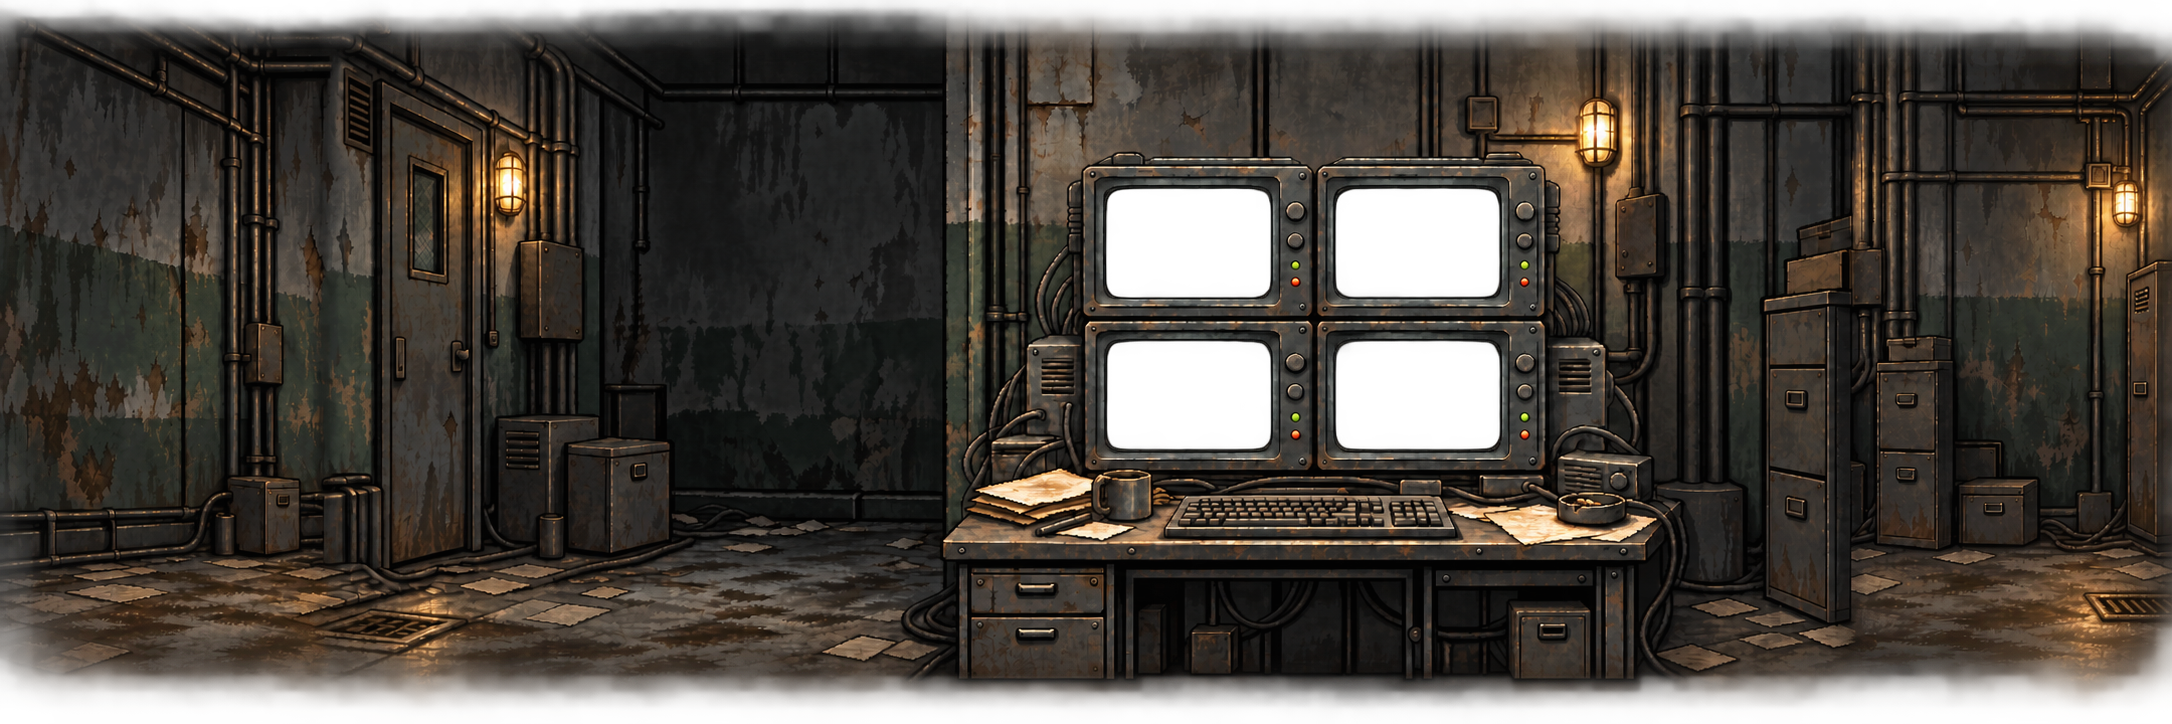
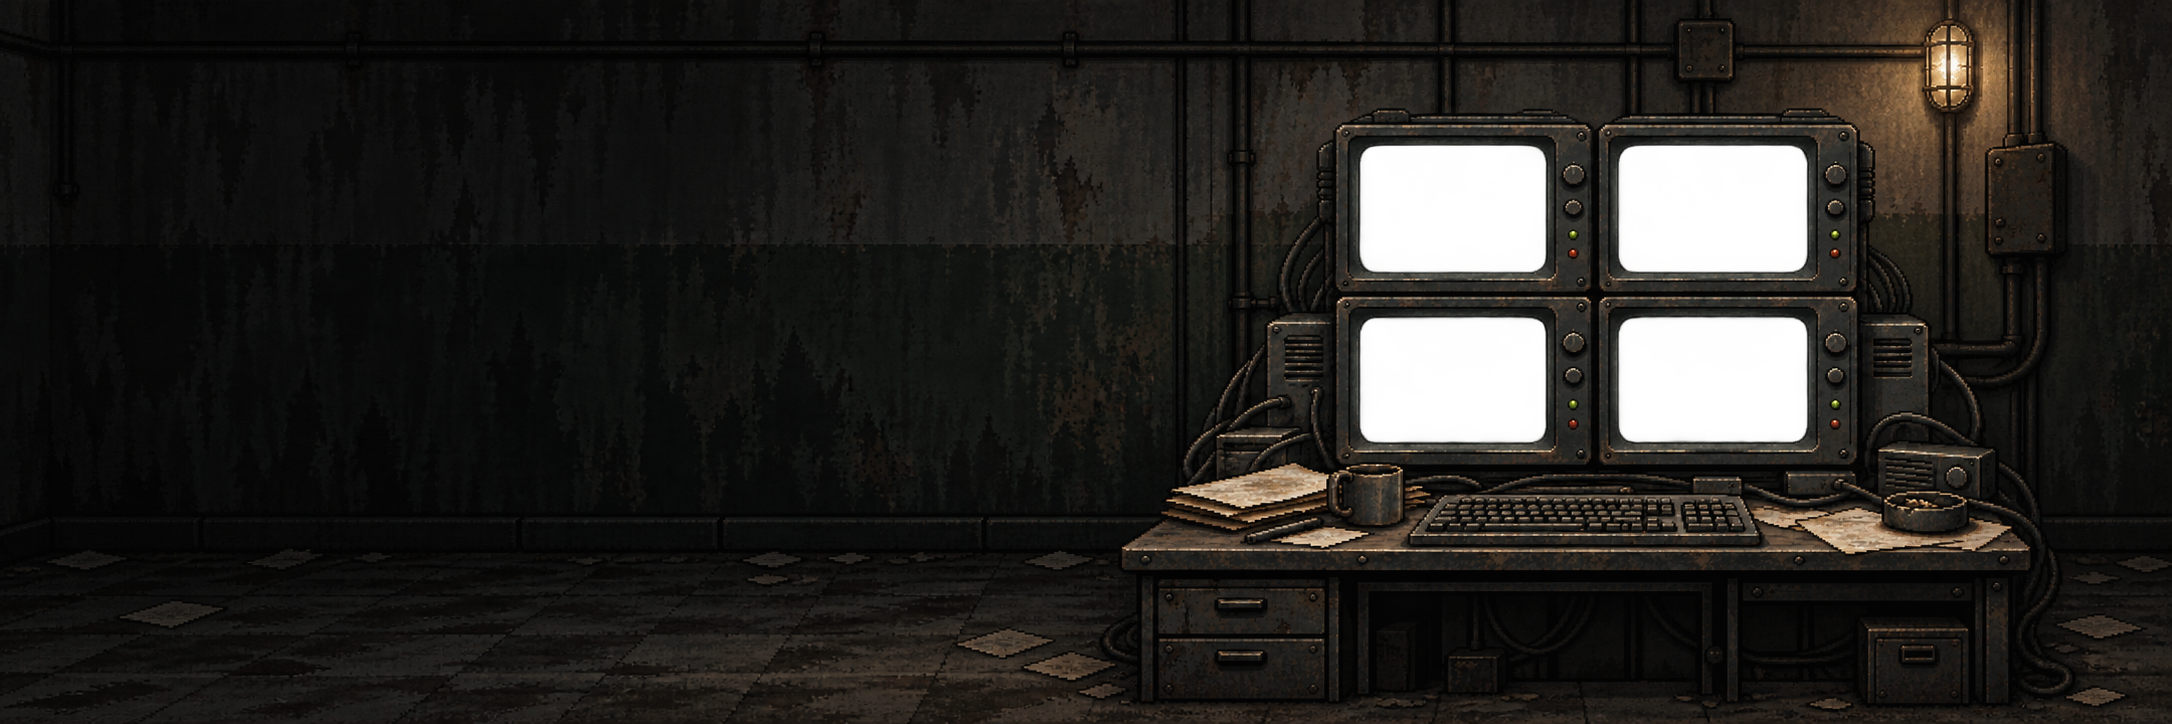
Recompose the security room as one coherent scene (0.5.0-dev.4)

diff --git a/tests/test_menu_assets.py b/tests/test_menu_assets.py
@@ -36,10 +36,10 @@ for y in range(height):
         predictor=(0,left,above,(left+above)//2,paeth(left,above,corner))[kind]
         row[x]=(row[x]+predictor)&255
     rows.append(row);prior=row
-for x,y in [(1180,240),(1420,240),(1180,400),(1420,400)]:
+for x,y in [(1450,200),(1700,200),(1450,380),(1700,380)]:
     assert rows[y][x*4+3]==0,'CRT glass must be actual transparency, not painted checkerboard'
-holes=[(1105,188,1272,298),(1335,187,1500,298),(1106,340,1272,450),(1335,340,1500,450)]
-for y in range(28,height-32):
+holes=[(1361,144,1548,274),(1620,144,1809,274),(1361,318,1548,444),(1620,318,1809,444)]
+for y in range(height):
     for x in range(width):
         if rows[y][x*4+3]==0:
             assert any(x0<=x<x1 and y0<=y<y1 for x0,y0,x1,y1 in holes),'Unexpected transparent hole in visible scenery'

diff --git a/docs/MENU_BACKGROUND.md b/docs/MENU_BACKGROUND.md
@@ -1,12 +1,12 @@
 # Security-room main menu
 
-Project Version: 0.5.0-dev.3
+Project Version: 0.5.0-dev.4
 
 Compatible MINOR addition from 0.4.0-dev.1; public API major 1, appearance storage and consumer contracts are unchanged. This is development source, not a Workshop upload.
 
 ## Behavior and ownership
 
-`MenuBackground.lua` wraps only a recognized, out-of-game `MainScreen` instance's native `prerender`. It draws an opaque black underlay, four animated screen surfaces, then the original room artwork. The artwork's transparent screen apertures mask the effects. One continuous 2172x724 panorama uses uniform cover scaling through 32:9 (5120x1440), cropping outer scenery as needed without distorting the CRTs. The generated top/bottom edge padding (28/32 pixels) is always outside the viewport. No side panels or seam overlays are drawn. The original PZ logo is fitted above the native menu in the left column. Visible interactive ISLabel and ISButton children are discovered each menu render; native controller helper labels are excluded. Rows share the available vertical area beneath the logo. Standard native labels use drawTextZoomed (ISUIElement.lua:1260), up to 1.9x, reduced for crowded rows/long labels, with their centers aligned to the logo midpoint. Unknown custom renderers retain their text drawing; their row bounds are centered/refitted. Nested custom panels and nonstandard control types are not automatically adapted. Callbacks, visibility and controller rows are never replaced. Added/hidden/removed entries and explicit position changes trigger updated layout without restarting. Labels retain their native actions, visibility and controller references; the panel position and label widths are updated for the left column. Native delay, fade and modal logic still run once. The temporary instance logo-drawing override is restored even when native rendering throws.
+`MenuBackground.lua` wraps only a recognized, out-of-game `MainScreen` instance's native `prerender`. It draws an opaque black underlay, four animated screen surfaces, then the original room artwork. The artwork's transparent screen apertures mask the effects. The 0.5.0-dev.4 room was recomposed from the original desk art with one continuous back wall, horizontal pipe run and floor junction, consistent floor perspective and one lamp. The 2172x724 panorama uses uniform cover scaling through 32:9 (5120x1440), shifting narrow horizontal crops to retain the right CRT group. The image is top-aligned so ultrawide cropping removes lower floor rather than the overhead pipe and lamp. No side panels, seam overlays or concealed joins are drawn. The original PZ logo is fitted above the native menu in the left column. Visible interactive ISLabel and ISButton children are discovered each menu render; native controller helper labels are excluded. Rows share the available vertical area beneath the logo. Standard native labels use drawTextZoomed (ISUIElement.lua:1260), up to 1.9x, reduced for crowded rows/long labels, with their centers aligned to the logo midpoint. Unknown custom renderers retain their text drawing; their row bounds are centered/refitted. Nested custom panels and nonstandard control types are not automatically adapted. Callbacks, visibility and controller rows are never replaced. Added/hidden/removed entries and explicit position changes trigger updated layout without restarting. Labels retain their native actions, visibility and controller references; the panel position and label widths are updated for the left column. Native delay, fade and modal logic still run once. The temporary instance logo-drawing override is restored even when native rendering throws.
 
 Each newly constructed main-menu instance gets four independently phased animation states seeded from the local millisecond timestamp. Repeated events do not reset an existing instance. A private Park-Miller generator does not seed or consume game/random-library state. Screens begin dark, show subdued static after staggered delays, settle permanently into a localized NO SIGNAL loop after independently selected 1-60 second static durations. Eight original 64x48 grayscale frames play at independently chosen 7–10 fps. No full-screen flashing, per-frame texture generation, new global tick handler, generated audio, real camera feed or gameplay scanning is involved. Visible-menu render time advances the animation, clamped to 100 ms per render to avoid large jumps after a stall.
 
@@ -43,6 +43,8 @@ The security-room prerender sets SoundManager runtime music gain to zero only ou
 
 [TESTED: offline Lua 5.1] Main-menu gain becomes zero, unchanged gain is not rewritten, options-preview changes are remuted, and in-game prerender does not change gain. These mocks do not establish FMOD routing. [RUNTIME GATE] Listen for both music and rain/thunder suppression, enter/leave a game and check configured music plus weather audio, and change audio options before repeating. Audible storm suppression is NOT TESTED; do not treat the VCA source audit as listening evidence. Earlier 0.5.0-dev.2 visual approval does not validate this audio change.
 
-## Ultrawide artwork (0.5.0-dev.3)
+## Ultrawide artwork (0.5.0-dev.4)
 
-A single original image-generated PNG redraws the left and right additions into one continuous wall, pipe and floor perspective. It replaces the rejected spliced arrangement. The 32:9 target is a practical PC resolution, not a proven PZ maximum. Source alpha inspection found four independent, fully transparent CRT interiors; their bounding boxes and the exact asset hashes are in MENU_ARTWORK.json. The unmodified original 16:9 art remains for provenance. At narrower ratios the image crops outer scenery; room geometry and CRTs keep their proportions. [TESTED: offline] viewport coverage, single-image draw, visible apertures and menu/CRT separation; [RUNTIME GATE] actual 5120x1440/ultrawide PZ rendering, menu focus, text fit and resize are NOT TESTED.
+A single original image-generated PNG recomposes the room from the original 16:9 desk art. The prior 0.5.0-dev.3 PNG retained changes in floor perspective and wall depth at the old side joins; source/CI checks did not detect that visual defect. It was rejected by the user and superseded. The current room has one flat back wall, one connected pipe run and a continuous wall/floor junction. There are no doors or tall cabinets at the former join positions. The 32:9 target is a practical aspect ratio, not a proven PZ maximum. Exact selected asset hashes and four genuine transparent aperture bounds are in MENU_ARTWORK.json.
+
+[TESTED: offline] PNG alpha decoding, single-image draw, viewport coverage, four visible apertures and menu/CRT separation at 1024x768, 1280x720, 1920x1008, 3440x1440 and 5120x1440. Full-width art and viewport previews were visually inspected for a consistent wall, pipes and floor; this is separate from PZ runtime acceptance. At narrow ratios outer scenery and part of the desk may crop. [RUNTIME GATE] Actual PZ ultrawide/resize, text fit and controller acceptance for this revision are NOT TESTED.

diff --git a/README.md b/README.md
@@ -1,6 +1,6 @@
 # B47ANCE'd UI
 
-Development version: 0.5.0-dev.3.
+Development version: 0.5.0-dev.4.
 
 Lua-only shared presentation for Project Zomboid Build 42.21. Public client API 1 provides styled native controls, rendering, layout helpers, focus, dialogs, bounded tooltips, per-mod/per-local-player appearance preferences, the appearance editor and original clipboard drawing.
 
@@ -14,7 +14,7 @@ The native adapter applies that style automatically to the native main-menu and 
 
 Quartermaster consumes this library; UI works without Quartermaster, Rooms or PC Framework. Application rows, labels, callbacks, permissions and network/gameplay state belong to consuming mods. No global vanilla class patches or custom Java/JAR dependencies.
 
-Development 0.5.0-dev.3 includes the original security-room main-menu artwork, with dark menu space on the left and four CRT screens on the right. One continuous panorama fills 32:9 displays such as 5120x1440 with uniform cover scaling; narrower windows crop the outer room. There are no separate side additions or artificial joins. Each boot creates independent short startup delays and 1-60 seconds of static per monitor, followed by a persistent subdued NO SIGNAL loop. Menu labels are enlarged and centered beneath the logo; visible direct-child menu entries are discovered dynamically and rows refit when mods add, hide or remove them. Standard labels scale; custom renderers retain their own text drawing. These are decorative animations, not live cameras. The Esc background stays native; original menu actions and controller label objects remain. The title screen mutes native music gain at runtime; audible rain/thunder suppression awaits an in-game listening check. See [background design and runtime gates](docs/MENU_BACKGROUND.md).
+Development 0.5.0-dev.4 includes the original security-room main-menu artwork, with dark menu space on the left and four CRT screens on the right. The room has been recomposed from the original desk art: one back wall, continuous pipe and floor junction, one floor perspective and one lamp. It fills 32:9 displays such as 5120x1440 with uniform cover scaling; narrower windows shift their crop to keep the CRT group visible. Each boot creates independent short startup delays and 1-60 seconds of static per monitor, followed by a persistent subdued NO SIGNAL loop. Menu labels are enlarged and centered beneath the logo; visible direct-child menu entries are discovered dynamically and rows refit when mods add, hide or remove them. Standard labels scale; custom renderers retain their own text drawing. These are decorative animations, not live cameras. The Esc background stays native; original menu actions and controller label objects remain. The title screen mutes native music gain at runtime; audible rain/thunder suppression awaits an in-game listening check. See [background design and runtime gates](docs/MENU_BACKGROUND.md).
 
 ```lua
 local UI=require('B47ANCEDUI/API').requireVersion(1).forMod('MyMod')

diff --git a/docs/WORKSHOP_DESCRIPTION.md b/docs/WORKSHOP_DESCRIPTION.md
@@ -23,7 +23,7 @@ UI does not require Quartermaster, Rooms, PC Framework or custom Java/JAR compon
 
 MP testing build - dedicated multiplayer NOT TESTED
 
-Offline Lua 5.1 contracts, syntax, source inventory, translation coverage and package integrity fixtures passed. The earlier 0.5.0-dev.2 menu visuals were observed in an isolated local game profile; 0.5.0-dev.3 ultrawide and audio behavior, controller, split-screen, subscription/download and dedicated-server behavior are NOT TESTED. This is test distribution, not stable-release certification.
+Offline Lua 5.1 contracts, syntax, source inventory, translation coverage and package integrity fixtures passed. The earlier 0.5.0-dev.2 menu visuals were observed in an isolated local game profile; 0.5.0-dev.4 ultrawide and inherited audio behavior, controller, split-screen, subscription/download and dedicated-server behavior are NOT TESTED. This is test distribution, not stable-release certification.
 
 ## Configuration
 Consuming mods can expose the shared local appearance editor: background opacity, a #RRGGBB hex field and Red/Green/Blue sliders (0–255). Changes preview locally; Reset restores opacity 82 and grey #B0B0B0. Existing opacity-only settings retain their values. Values are isolated by mod and local player. Appearance settings do not change gameplay or server permissions. There are no shared-gameplay sandbox options in this presentation-only foundation.
@@ -41,4 +41,4 @@ Developed by B47ANCE'd Workshop. Original B47ANCE-owned shared code extracted fr
 
 ## Development background
 
-The 0.5.0-dev.3 development branch extends the security-room art for 32:9 screens and mutes title-screen music gain. Workshop currently remains at 0.3.0-dev.1. Native acceptance of this revision remains NOT TESTED.
+The 0.5.0-dev.4 development branch recomposes the security room for 32:9 screens with one wall/floor perspective and retains the title-screen music gain mute. Workshop currently remains at 0.3.0-dev.1. Native acceptance of this revision remains NOT TESTED.

diff --git a/docs/TESTING.md b/docs/TESTING.md
@@ -1,6 +1,6 @@
 # Validation
 
-Project Version: 0.5.0-dev.3
+Project Version: 0.5.0-dev.4
 
 Commands: `python -B scripts/check_versions.py`; `python -B tests/run_tests.py`.
 
@@ -46,4 +46,6 @@ Publication-preparation tooling adds deterministic packaging, CRC/member/source 
 
 0.5.0-dev.3 mutes native music runtime gain while the security-room main menu renders; native exit restores the configured gain. Saved preferences and in-game/Esc audio are untouched. Audible storm suppression and audio restoration require runtime listening; NOT TESTED. See docs/MENU_BACKGROUND.md for source evidence and limits.
 
-0.5.0-dev.3 ultrawide [TESTED: offline]: one panorama uniformly covers viewports from 1024x768 through 5120x1440, four CRT apertures remain visible and source-aligned, and the logo/menu column stays clear of the CRTs. Actual PZ 32:9 rendering and resize remain [RUNTIME GATE] NOT TESTED.
+0.5.0-dev.4 ultrawide [TESTED: offline]: one panorama uniformly covers viewports from 1024x768 through 5120x1440, four CRT apertures remain visible and source-aligned, and the logo/menu column stays clear of the CRTs. Actual PZ 32:9 rendering and resize remain [RUNTIME GATE] NOT TESTED.
+
+0.5.0-dev.4 replaces the rejected visual composition. Alpha checks inspect the entire PNG for unintended transparent holes, and the four new CRT mask rectangles are checked in all viewport fixtures. A single PNG and passing geometry tests alone do not establish coherent room perspective; full-width art/preview inspection is recorded separately in MENU_BACKGROUND.md. PZ runtime NOT TESTED.

diff --git a/docs/WORKSHOP_CHANGELOG.md b/docs/WORKSHOP_CHANGELOG.md
@@ -1,8 +1,8 @@
-Version 0.5.0-dev.3
+Version 0.5.0-dev.4
 
 MP testing build - dedicated multiplayer NOT TESTED
 
-Expanded 32:9 security-room main-menu background with four independently randomized static/no-signal monitors. Native main-menu actions and controller label identities remain; Esc background is unchanged. Each monitor has independent 1-60 second initial static then persistent no-signal animation. One continuous panorama with undistorted CRTs and transparent screen openings fills ultrawide displays. Narrower windows crop the outer room. Larger centered navigation adapts to visible mod-added menu labels/buttons. Decorative animation only, no live CCTV.
+Recomposed 32:9 security-room main-menu background: a single back wall, continuous pipes/floor, one lamp and four independently randomized static/no-signal monitors. Native main-menu actions and controller label identities remain; Esc background is unchanged. Each monitor has independent 1-60 second initial static then persistent no-signal animation. One continuous panorama with undistorted CRTs and transparent screen openings fills ultrawide displays. Narrower windows crop the outer room. Larger centered navigation adapts to visible mod-added menu labels/buttons. Decorative animation only, no live CCTV.
 
 Development source only, not uploaded. Main-menu rendering, resolutions, controller and menu-mod compatibility require native validation. G7 and stable G8 remain blocked.
 

diff --git a/CHANGELOG.md b/CHANGELOG.md
@@ -1,5 +1,10 @@
 # Changelog
 
+## [0.5.0-dev.4]
+- Compatible PATCH correction: recompose the whole room from the original desk artwork with one continuous back wall, pipe run, floor perspective and lamp. Remove the architecture that still made 0.5.0-dev.3 look spliced.
+- Update four genuine transparent CRT masks and keep the right CRT group visible during uniform cover cropping. Menu actions, static timing and audio behavior are unchanged.
+- Offline alpha, source, geometry and regression checks; actual PZ rendering for this revision NOT TESTED. The rejected 0.5.0-dev.3 source/CI checks did not prove visual continuity.
+
 ## [0.5.0-dev.3]
 - Replace the side additions with one continuous security-room panorama. Uniform cover scaling fills 32:9 and narrower viewports without stretching the CRTs; the room has no panel joins or seam overlays.
 - Compatible PATCH refinement of the unreleased 0.5 UI: mute native menu music runtime gain while the security-room title screen renders. No saved audio options are changed; native menu exit restores the configured volume, and Esc/in-game rendering is excluded.

diff --git a/docs/ARCHITECTURE.md b/docs/ARCHITECTURE.md
@@ -1,6 +1,6 @@
 # Architecture and persistence
 
-Project Version: 0.5.0-dev.3
+Project Version: 0.5.0-dev.4
 
 Initial project creation establishes canonical VERSION and API 1; no prior UI project version exists. This is an extracted foundation, not fulfillment of the full-overhaul audit. Authority is client presentation only: no server module, gameplay ModData, custom network commands, inventory mutation or game-state ownership. Normal client Lua load paths expose the API. Dedicated servers may install the mod as a dependency but do not load client widgets; runtime verification is pending.
 

diff --git a/docs/API.md b/docs/API.md
@@ -1,6 +1,6 @@
 # Public Lua API
 
-Project Version: 0.5.0-dev.3
+Project Version: 0.5.0-dev.4
 
 Client only. `local API=require 'B47ANCEDUI/API'`; `API.requireVersion(1)` returns the provider or errors for an unsupported API major before application UI is constructed. `API.apiVersion` is the independent contract major; `API.version` is the project version. API 1 is the initial contract. Add `B47ANCEDUI` to mod.info `require`; no bundled implementation fallback or private module require is supported for consumers.
 

diff --git a/docs/NATIVE_MENUS.md b/docs/NATIVE_MENUS.md
@@ -1,6 +1,6 @@
 # Native main and Esc menu styling
 
-Project Version: 0.5.0-dev.3
+Project Version: 0.5.0-dev.4
 
 Compatible MINOR integration within public Lua API 1. Development source only; no deployment, package or upload for this iteration. Workshop item 3822582242 remains at the recorded 0.3.0-dev.1 build.
 
